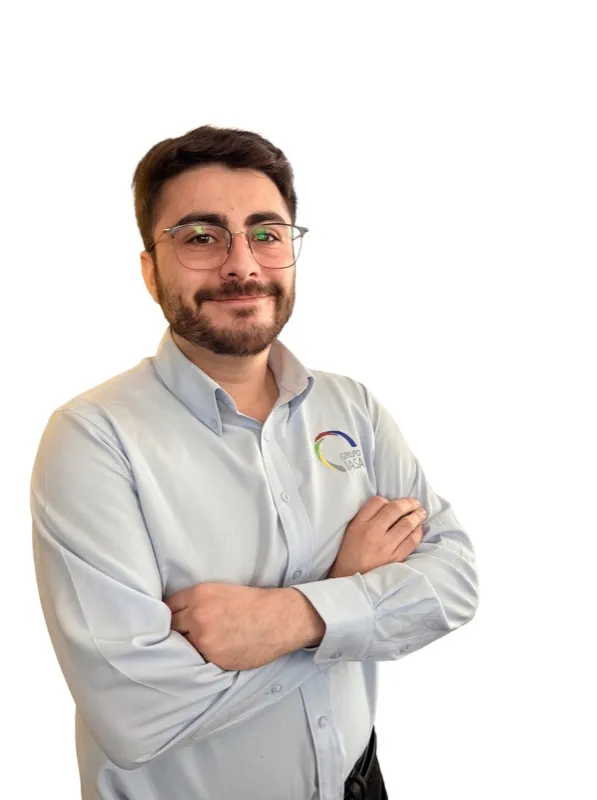
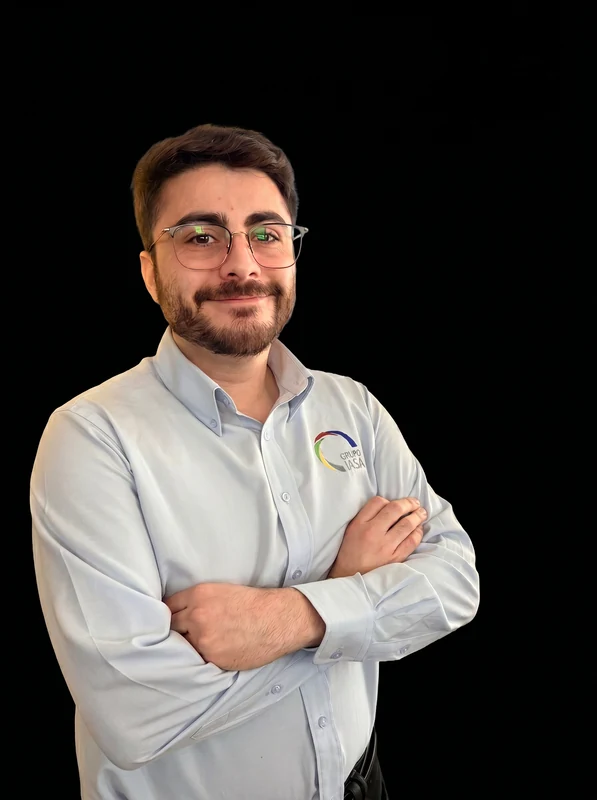
fix(grupoiasa): corrige fotos de equipo a fondo negro + suma Miguel y PILO
Las fotos de Evandro y Nelson eran los únicos retratos del equipo en
fondo BLANCO, con el logo Grupo IASA desvaído/erróneo y marca de agua
"Picsart". El cliente envió las versiones corregidas (estudio, fondo
negro, logo full-color) que ahora reemplazan a las anteriores y dejan
la galería 100% consistente (grayscale con hover→color, 597×800).

- assets/: masters actualizados EVANDRO.png y nelson.png; nuevo MIGUEL.png.
- public/team/: evandro.webp y nelson.webp regenerados a fondo negro;
  nuevo miguel.webp (landscape→retrato 3:4 anclado arriba).
- LiderazgoStrip: Miguel Cadenasso pasa de iniciales a foto. Jorge
  Pastene se mantiene con iniciales (no hay foto suya).
- equipo.ts / nosotros: se incorpora a Claudina Páez (PILO) con su foto
  pilo.webp; se elimina el caveat "sin foto disponible aún". Nombres
  validados contra el registro oficial del cliente (Libro1_.xlsx).

diff --git a/grupoiasa-website/src/data/equipo.ts b/grupoiasa-website/src/data/equipo.ts
@@ -34,7 +34,7 @@ export const equipo: Miembro[] = [
   { nombre: 'Carlos Riquelme', cargo: 'Dibujante Proyectista', foto: '/team/carlos.webp', division: 'plataforma' },
   // Administración
   { nombre: 'Maryelin Lucero', cargo: 'Analista Contable', foto: '/team/mary.webp', division: 'plataforma' },
-  // Claudina Páez · Asistente Administración — sin foto disponible aún
+  { nombre: 'Claudina Páez', cargo: 'Asistente de Administración', foto: '/team/pilo.webp', division: 'plataforma' },
 ];
 
 export const plataformas = [

diff --git a/grupoiasa-website/src/app/nosotros/page.tsx b/grupoiasa-website/src/app/nosotros/page.tsx
@@ -95,7 +95,6 @@ export default function NosotrosPage() {
           </div>
           <p className="mt-14 text-[12px] text-gris-medio max-w-2xl">
             Equipo y cargos según documento interno «Ecosistema Grupo IASA» — mayo 2026.
-            Claudina Páez · Asistente Administración (sin foto disponible aún).
           </p>
         </div>
       </section>

diff --git a/grupoiasa-website/src/components/LiderazgoStrip.tsx b/grupoiasa-website/src/components/LiderazgoStrip.tsx
@@ -44,6 +44,7 @@ const lideres: Lider[] = [
   {
     nombre: 'Miguel Cadenasso',
     cargo: 'Liderazgo técnico · Modelación numérica',
+    foto: '/team/miguel.webp',
     accent: '#B6612A',
   },
 ];
